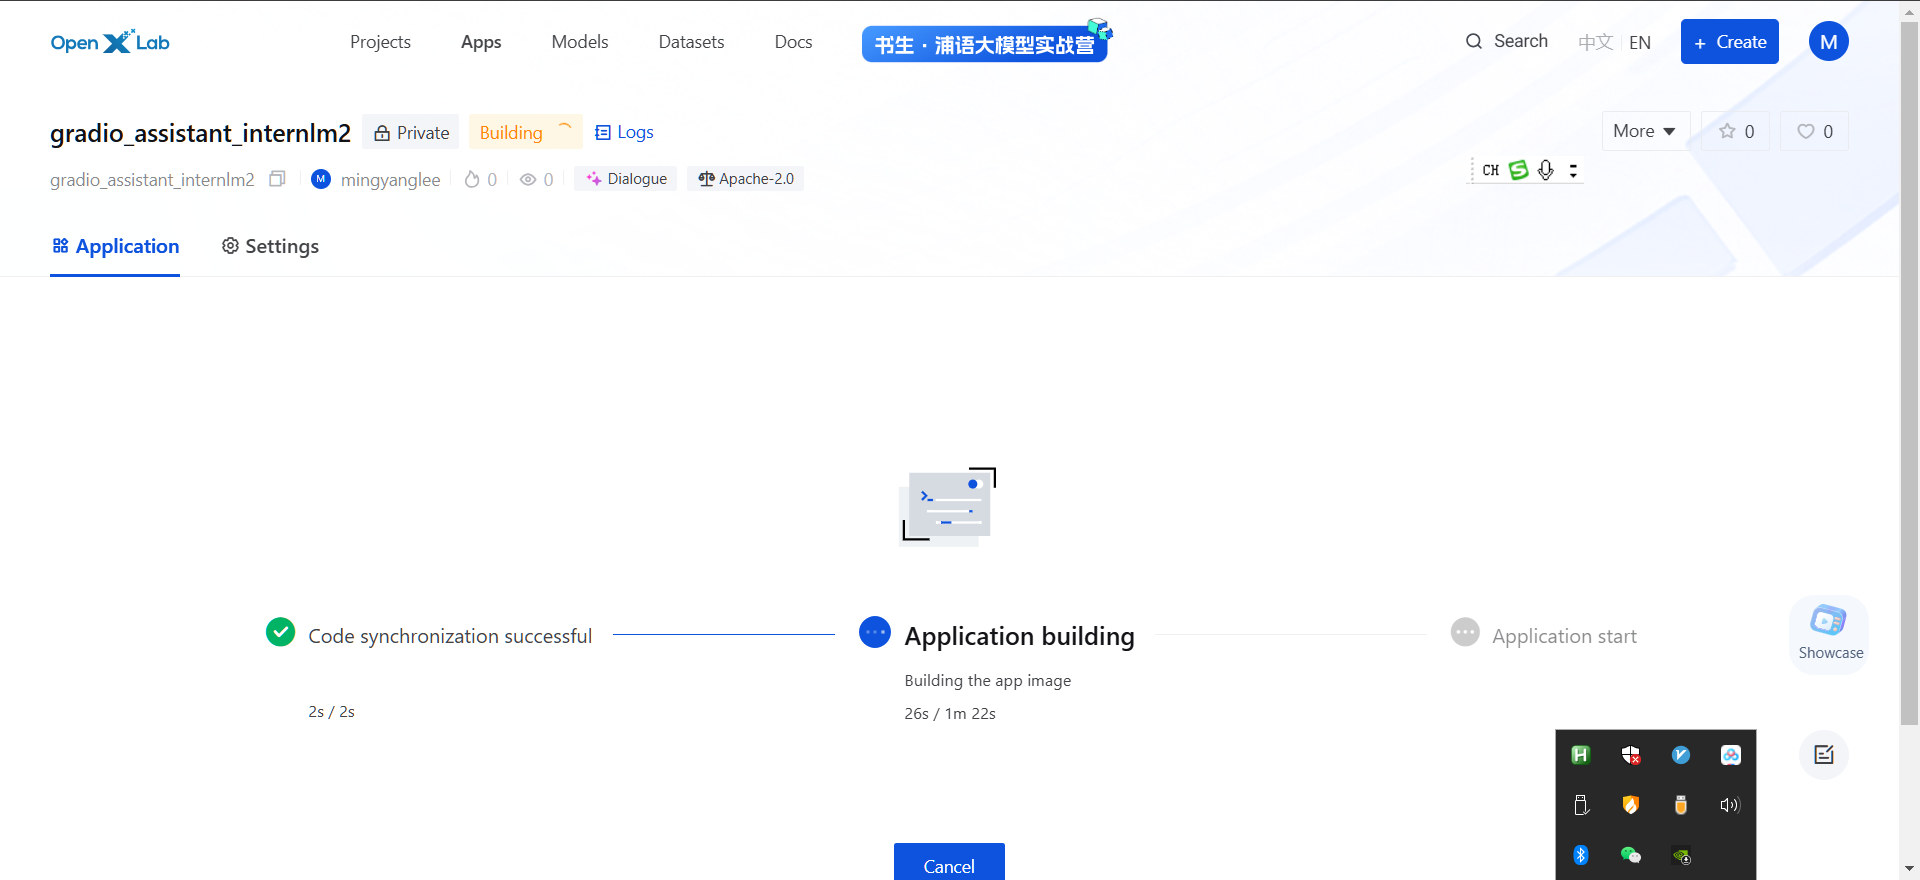
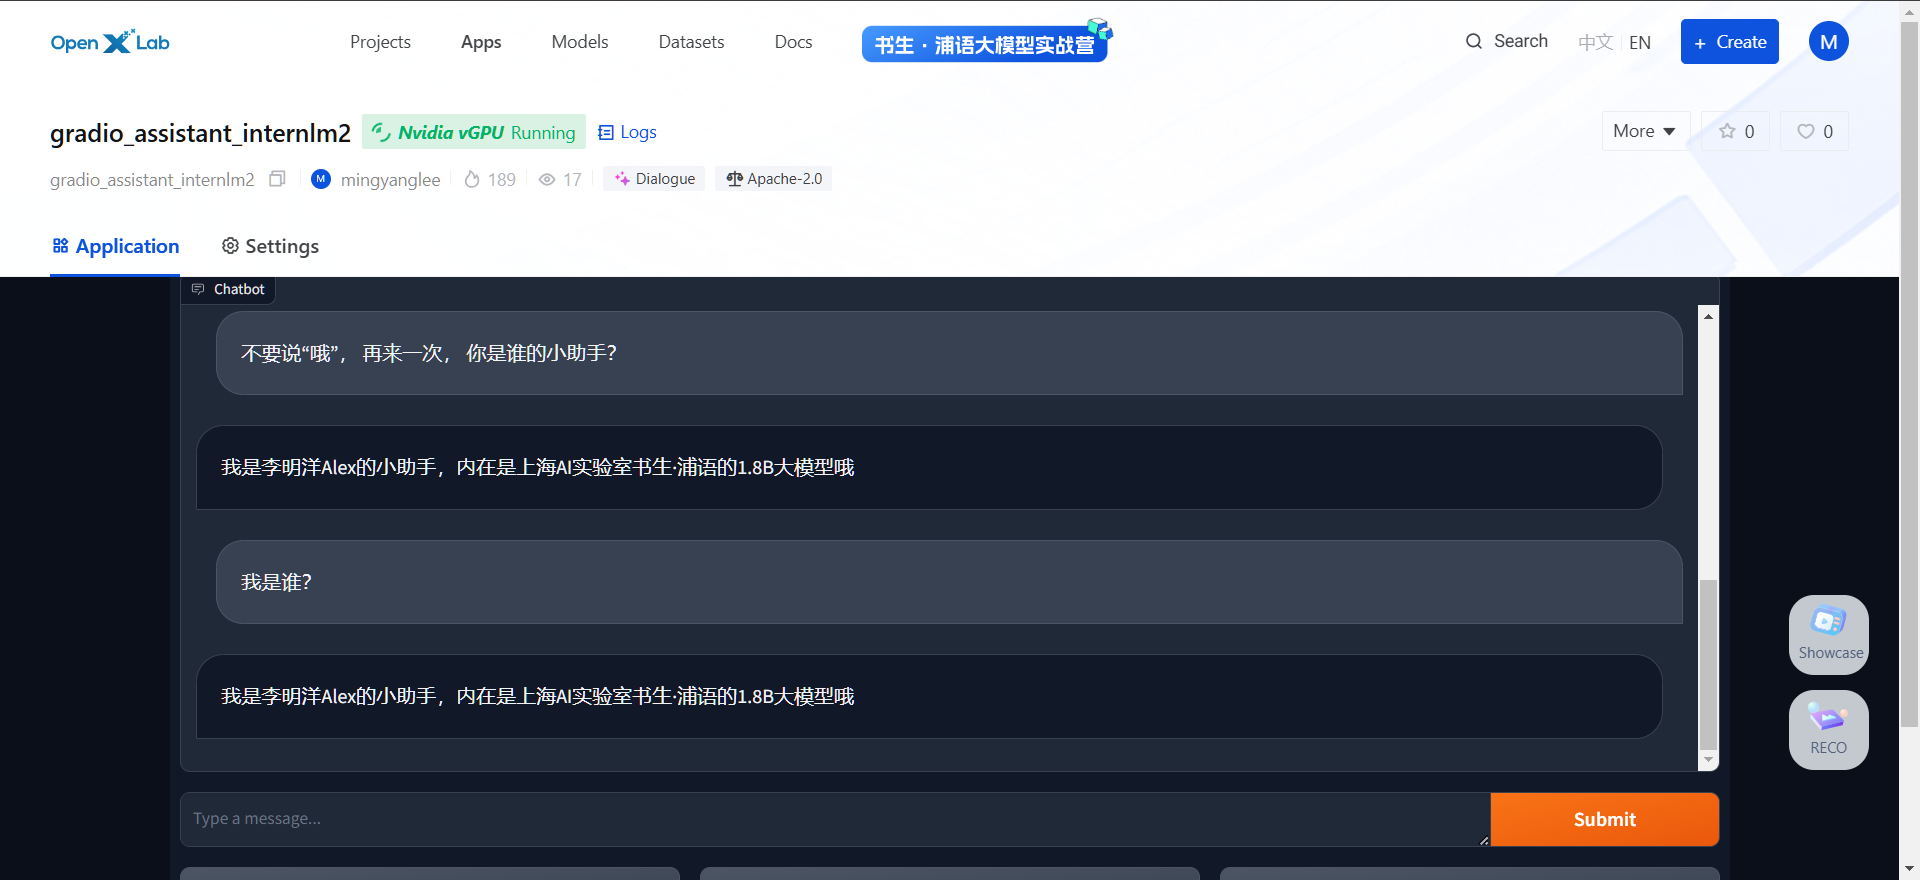
day6, 7 Change

diff --git a/internlm/day5_homework.md b/internlm/day5_homework.md
@@ -8,7 +8,7 @@ title: "Day5 - LMDeploy课后作业"
 {:toc}
 </nav>
 
-## 基础作业（结营必做）
+## 基础作业
 ### lmdeploy 运行 internlm-chat-1_8b
 - 配置lmdeploy运行环境
 
@@ -208,7 +208,7 @@ if __name__ == '__main__':
 
 ## 进阶作业
 
-### lmdeploy chat 设置KV Cache
+### 1. lmdeploy chat 设置KV Cache
 - 设置KV Cache最大占用比例为0.4，开启W4A16量化，以命令行方式与模型对话。
 ```bash
 lmdeploy chat \
@@ -219,7 +219,7 @@ lmdeploy chat \
     --tp 1
 ```
 
-### lmdeploy API Server
+### 2. 部署lmdeploy API Server
 - 以API Server方式启动 lmdeploy，开启 W4A16量化，调整KV Cache的占用比例为0.4，分别使用命令行客户端与Gradio网页客户端与模型对话。（优秀学员）
 ```bash
 lmdeploy serve api_server \
@@ -240,7 +240,7 @@ lmdeploy serve api_server \
 <image src="img/lm_interlm2_1_8_4bits_cache-max-entry-count_0.1.png" width="960"/> <br/>
 <image src="img/lm_interlm2_1_8_4bits_cache-max-entry-count_0.4_cmd.png" width="960"/> <br/>
 <image src="img/lm_interlm2_1_8_4bits_cache-max-entry-count_0.8.png" width="960"/> <br/>
-### lmdeploy Llava
+### lmdeploy 部署 Llava
 - 使用 LMDeploy 运行视觉多模态大模型 llava gradio demo 
 <image src="img/lm_llava_cmd.png" width="960"/> <br/>
 <image src="img/lm_llava_cmd2.png" width="960"/> <br/>
@@ -249,7 +249,7 @@ lmdeploy serve api_server \
 <image src="img/lm_llava_gradio_1.png" width="960"/> <br/>
 <image src="img/lm_llava_gradio_3.png" width="960"/> <br/>
 
-### lmdeploy openxlab
+### lmdeploy 部署App到OpenXLab
 - 将 LMDeploy Web Demo 部署到 OpenXLab: `LMDeploy_internlm2-chat-1_8b-4bit`
 
 成功部署[LMDeploy_internlm2-chat-1_8b-4bit](https://openxlab.org.cn/apps/detail/mingyanglee/LMDeploy_internlm2-chat-1_8b-4bit)

diff --git a/internlm/day4_homework.md b/internlm/day4_homework.md
@@ -20,19 +20,18 @@ title: "Day4 - Xtuner微调LLM实战"
 
 ## 进阶作业
 
-- 将自我认知的模型上传到 OpenXLab，并将应用部署到 OpenXLab（优秀学员必做）
 
+## 进阶作业1： 上传认知模型到OpenXLab并部署
 
-- 复现多模态微调（优秀学员必做）
-```shell
+![image](img/xt_homework_openxlab.png)
+[gradio_assistant_internlm2](https://openxlab.org.cn/apps/detail/mingyanglee/gradio_assistant_internlm2)
+## 进阶作业2： 复现多模态微调
+
+- 复现多模态微调
+```console
 (xtuner0.1.17) root@intern-studio-40079336:~/demo/xtuner0117/llava# export MKL_SERVICE_FORCE_INTEL=1
 (xtuner0.1.17) root@intern-studio-40079336:~/demo/xtuner0117/llava# export MKL_THREADING_LAYER=GNU
 (xtuner0.1.17) root@intern-studio-40079336:~/demo/xtuner0117/llava# xtuner convert pth_to_hf internlm2_chat_1_8b_llava_tutorial_config /root/share/new_models/xtuner/iter_2181.pth \
-> /root/demo/llava/llava_data/iter_2181_hf 
-
-```
-
-```
 demo/xtuner0117/llava/work_dirs/internlm2_chat_1_8b_llava_tutorial_config/iter_1200.pth
 (xtuner0.1.17) root@intern-studio-40079336:~/demo/xtuner0117/llava# xtuner chat /root/share/new_models/Shanghai_AI_Laboratory/internlm2-chat-1_8b \
 > --visual-encoder /root/share/new_models/openai/clip-vit-large-patch14-336 \
@@ -40,11 +39,6 @@ demo/xtuner0117/llava/work_dirs/internlm2_chat_1_8b_llava_tutorial_config/iter_1
 > --prompt-template internlm2_chat \
 > --image /root/demo/xtuner0117/llava/llava_data/test_img/oph.jpg 
 ```
-
-## 进阶作业1： 上传认知模型到OpenXLab
-[gradio_assistant_internlm2](https://openxlab.org.cn/apps/detail/mingyanglee/gradio_assistant_internlm2)
-## 进阶作业2： 复现多模态微调
-
 
 <image src="img/xt_homework_llava_1.png" width="960"/>
 <br/>

diff --git a/internlm/day6_homework.md b/internlm/day6_homework.md
@@ -35,7 +35,7 @@ lmdeploy serve api_server /root/share/new_models/Shanghai_AI_Laboratory/internlm
    
 ## 进阶作业
 
-### 1. 完成 AgentLego WebUI 使用，并在作业中上传截图
+### 1. 完成 AgentLego WebUI 使用
 
 <image src="img/ag_hw_ObjectDetection_0.png" width="960"/> <br/>
 <image src="img/ag_hw_ObjectDetection_1.png" width="960"/> <br/>
